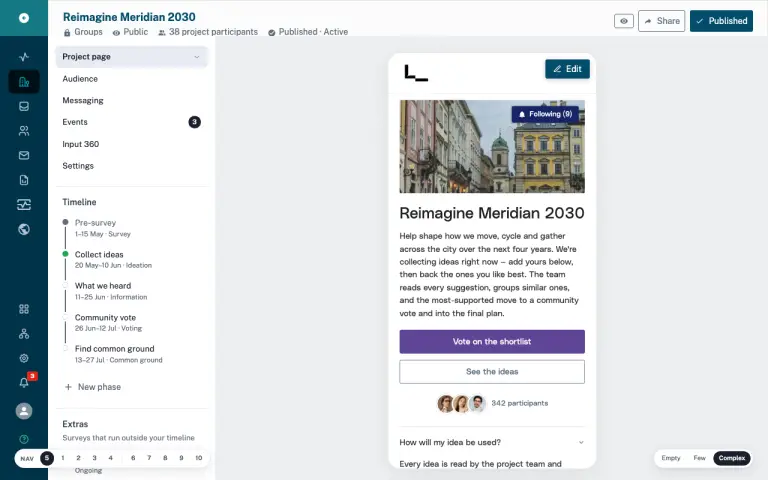
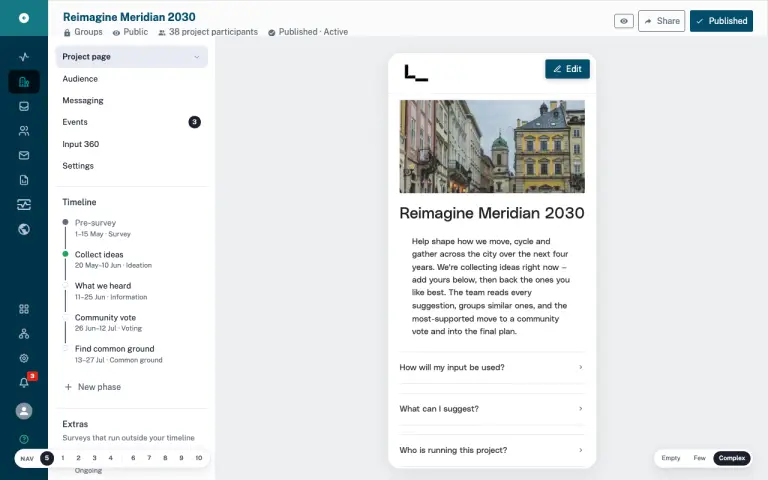
v3 editor: live model-driven phone preview from the canonical registry
The project-editor phone preview was static — phoneFO() returned hardcoded
sample HTML and only the empty/few/complex chips re-rendered it, so editing the
builder title (or anything) never reached the preview (audit F-FO4).

Canonical (GVWidgets.project, govocal-widgets.js — additive, make() output
unchanged):
  • buildModel(frameEl)  — read the builder's #cb-frame blocks into a project model
  • foBlock(type, data)  — clean resident-facing FO per widget (reuses the already-
                           clean pbox/survey/events/timeline internals; new FO
                           emitters for the builder-chrome widgets so no
                           contenteditable / cb-zone leaks onto the resident page)
  • renderFO(model)      — assemble the full FO project body (banner + content pad)
This is the single source of truth for FO project output — the phone preview now,
pages/project-page next (R1).

v3: renderPhone() now renders GVWidgets.project.renderFO(buildModel(#cb-frame));
a debounced MutationObserver on #cb-frame re-renders the phone on every edit
(title, text, method toggle, survey state…). Scaffold .gv-fo__* layout is
prototype-local for now (promote to canonical with R1). Synced widgets.js into
both prototype asset copies (byte-identical, INV-1).

Verified (Playwright, ?theme=linz): builder title/text edits propagate live to
the phone; pbox stays centered (gv-pbox--dir-a, justify-content:center); CTA fill
[…]

diff --git a/parallel-participation/prototypes/back-office-test/assets/govocal-widgets.js b/parallel-participation/prototypes/back-office-test/assets/govocal-widgets.js
@@ -987,6 +987,87 @@ window.GVWidgets = (function () {
       if (window.GVAvatars) window.GVAvatars.fill(frame);
     }
 
+    // ════════════ Canonical model-driven FRONT-OFFICE renderer ════════════
+    // Turns the builder's assembled blocks (or any project model) into the
+    // resident-facing project page — the single source of truth for FO output,
+    // consumed by the prototype phone preview and (later) pages/project-page.
+    // Content widgets (participation-box, extra-surveys, timeline, events) ARE
+    // already clean FO, so we reuse their make-internals; the builder-chrome
+    // widgets (title, hero, text, accordion, columns, …) get a clean FO emitter
+    // here (no contenteditable / cb-zone / drop affordances). Scaffold uses
+    // .gv-fo__* classes (styled per surface; page-composition layout, like the
+    // pp-* classes on pages/project-page).
+    function foEsc(s) { return esc(s == null ? '' : String(s)); }
+    function foDirectBlocks(el) {
+      // direct-child builder blocks (column children are read via their zone)
+      return Array.prototype.filter.call(el.children, function (c) {
+        return c.classList && c.classList.contains('gv-bo-cb-block');
+      });
+    }
+    // Read one builder block (.gv-bo-cb-block[data-widget]) back into {type,data}.
+    function readBlock(block) {
+      var type = block.getAttribute('data-widget');
+      function q(s) { return block.querySelector(s); }
+      function tx(s) { var n = q(s); return n ? (n.textContent || '').trim() : ''; }
+      var d = {};
+      switch (type) {
+        case 'title': d.text = tx('.cb-title'); break;
+        case 'hero': var hi = q('.cb-hero__img'); d.src = hi ? hi.getAttribute('src') : ''; break;
+        case 'text': var rt = q('.cb-richtext'); d.html = rt ? rt.innerHTML : ''; break;
+        case 'button': var b = q('.cb-fakebtn'); d.label = b ? (b.textContent || '').trim() : 'Button'; d.href = (b && b.getAttribute('data-href')) || '#'; d.style = b && b.classList.contains('cb-fakebtn--secondary') ? 'secondary' : (b && b.classList.contains('cb-fakebtn--link') ? 'link' : 'primary'); break;
+        case 'image': var im = q('.cb-img'); d.src = im ? im.getAttribute('src') : ''; d.alt = im ? (im.getAttribute('alt') || '') : ''; break;
+        case 'accordion': case 'info-accordions': d.title = tx('.cb-accordion__title'); var bt = q('.cb-accordion__text'); d.body = bt ? bt.innerHTML : ''; break;
+        case 'file-attachment': d.name = tx('.cb-file__name'); d.meta = tx('.cb-file__meta'); break;
+        case 'white-space': var ws = q('.cb-ws'); d.height = ws && ws.style.height ? parseInt(ws.style.height, 10) : 32; break;
+        case 'image-text-cards': d.caps = Array.prototype.map.call(block.querySelectorAll('.cb-card__cap'), function (c) { return (c.textContent || '').trim(); }); break;
+        case 'two-column': case 'three-column': d.cols = Array.prototype.map.call(block.querySelectorAll('.cb-col'), function (col) { return foDirectBlocks(col).map(readBlock); }); break;
+        case 'participation-box': d.pbox = cbPboxState(block); break;
+        case 'extra-surveys': d.survey = cbSurveyState(block); break;
+        case 'iframe': d.cap = tx('.cb-iframe__cap'); break;
+        // timeline / events render from the project model (CB_PHASES / CB_EVENTS)
+      }
+      return { type: type, data: d };
+    }
+    function buildModel(frame) {
+      if (!frame) return { blocks: [] };
+      return { blocks: foDirectBlocks(frame).map(readBlock) };
+    }
+    // Clean FO HTML for one block — no builder chrome.
+    function foBlock(type, data) {
+      data = data || {};
+      switch (type) {
+        case 'title': return data.text ? '<h1 class="gv-title h1 gv-fo__title">' + foEsc(data.text) + '</h1>' : '';
+        case 'text': return '<div class="gv-fo__rich gv-prose">' + (data.html || '') + '</div>';
+        case 'button': return '<div class="gv-fo__btnrow"><a class="gv-btn ' + (data.style === 'secondary' ? 'secondary-outlined' : data.style === 'link' ? 'text' : 'primary') + '" href="' + foEsc(data.href || '#') + '">' + foEsc(data.label || 'Button') + '</a></div>';
+        case 'image': return data.src ? '<figure class="gv-fo__img"><img src="' + foEsc(data.src) + '" alt="' + foEsc(data.alt) + '"></figure>' : '';
+        case 'accordion': case 'info-accordions': return '<div class="gv-accordion gv-fo__acc"><details class="gv-acc__item"><summary class="gv-acc__head"><span class="gv-acc__q">' + foEsc(data.title || 'More information') + '</span><span class="gv-acc__chev" data-gv-icon="chevron-right" aria-hidden="true"></span></summary><div class="gv-acc__body"><p>' + (data.body || '') + '</p></div></details></div>';
+        case 'file-attachment': return '<a class="gv-fileblock gv-fo__file" href="#"><span class="gv-icon" data-gv-icon="download"></span><span class="gv-fileblock__info"><span class="gv-fileblock__name">' + foEsc(data.name || 'Attachment') + '</span><span class="gv-fileblock__meta">' + foEsc(data.meta) + '</span></span></a>';
+        case 'white-space': return '<div class="gv-fo__ws" style="height:' + (data.height || 32) + 'px"></div>';
+        case 'image-text-cards': return '<div class="gv-fo__cards">' + (data.caps || []).map(function (c) { return '<div class="gv-fo__card"><div class="gv-fo__card-img"></div><div class="gv-fo__card-cap">' + foEsc(c) + '</div></div>'; }).join('') + '</div>';
+        case 'two-column': case 'three-column': return '<div class="gv-fo__cols gv-fo__cols--' + (type === 'three-column' ? 3 : 2) + '">' + (data.cols || []).map(function (col) { return '<div class="gv-fo__col">' + col.map(function (cb) { return foBlock(cb.type, cb.data); }).join('') + '</div>'; }).join('') + '</div>';
+        case 'iframe': return '<div class="gv-fo__embed">' + foEsc(data.cap || 'Embedded content') + '</div>';
+        case 'participation-box': return cbPboxBodyHTML(data.pbox || cbPboxDefault());
+        case 'extra-surveys': var sv = data.survey || { survey: 'mobility', format: 'card', style: 'primary', label: '', cardVariant: 'easy', state: 'current' }; return cbSurveyHTML(sv.survey, sv.format, sv.style, sv.label, sv.cardVariant, sv.state);
+        case 'timeline': return cbTimelineHTML();
+        case 'events': return cbEventsHTML(2);
+        default: return '';
+      }
+    }
+    // Assemble the full FO project body from a model {blocks:[{type,data}]}.
+    // Hero → full-bleed banner; title → page head; the rest flow in the content pad.
+    function renderFO(model) {
+      model = model || {};
+      var blocks = model.blocks || [];
+      var hero = '', head = '', body = '';
+      blocks.forEach(function (bl) {
+        if (bl.type === 'hero') { hero = (bl.data && bl.data.src) || hero; return; }
+        if (bl.type === 'title') { head += foBlock('title', bl.data); return; }
+        body += foBlock(bl.type, bl.data);
+      });
+      var banner = hero ? '<div class="gv-fo__banner"><img src="' + foEsc(hero) + '" alt=""></div>' : '';
+      return '<div class="gv-fo">' + banner + '<div class="gv-fo__pad">' + head + body + '</div></div>';
+    }
+
     // ── assemble the registry: every widget shares the dispatchers above ──
     var REG = {};
     Object.keys(MK).forEach(function (w) {
@@ -1001,6 +1082,10 @@ window.GVWidgets = (function () {
     });
     REG._meta = { tx: TX };   // which widgets show the panel-level locale switcher
     REG._applyModel = applyModel;   // prototypes call GVWidgets.project._applyModel(model, frame)
+    // Model-driven FO renderer: read the builder → render the resident page.
+    REG.buildModel = buildModel;    // GVWidgets.project.buildModel(frameEl) → {blocks}
+    REG.renderFO = renderFO;        // GVWidgets.project.renderFO(model) → FO HTML string
+    REG.foBlock = foBlock;          // per-widget clean FO emitter
     return REG;
   })();
 

diff --git a/parallel-participation/prototypes/parallel-editor-builder-v3/assets/govocal-widgets.js b/parallel-participation/prototypes/parallel-editor-builder-v3/assets/govocal-widgets.js
@@ -987,6 +987,87 @@ window.GVWidgets = (function () {
       if (window.GVAvatars) window.GVAvatars.fill(frame);
     }
 
+    // ════════════ Canonical model-driven FRONT-OFFICE renderer ════════════
+    // Turns the builder's assembled blocks (or any project model) into the
+    // resident-facing project page — the single source of truth for FO output,
+    // consumed by the prototype phone preview and (later) pages/project-page.
+    // Content widgets (participation-box, extra-surveys, timeline, events) ARE
+    // already clean FO, so we reuse their make-internals; the builder-chrome
+    // widgets (title, hero, text, accordion, columns, …) get a clean FO emitter
+    // here (no contenteditable / cb-zone / drop affordances). Scaffold uses
+    // .gv-fo__* classes (styled per surface; page-composition layout, like the
+    // pp-* classes on pages/project-page).
+    function foEsc(s) { return esc(s == null ? '' : String(s)); }
+    function foDirectBlocks(el) {
+      // direct-child builder blocks (column children are read via their zone)
+      return Array.prototype.filter.call(el.children, function (c) {
+        return c.classList && c.classList.contains('gv-bo-cb-block');
+      });
+    }
+    // Read one builder block (.gv-bo-cb-block[data-widget]) back into {type,data}.
+    function readBlock(block) {
+      var type = block.getAttribute('data-widget');
+      function q(s) { return block.querySelector(s); }
+      function tx(s) { var n = q(s); return n ? (n.textContent || '').trim() : ''; }
+      var d = {};
+      switch (type) {
+        case 'title': d.text = tx('.cb-title'); break;
+        case 'hero': var hi = q('.cb-hero__img'); d.src = hi ? hi.getAttribute('src') : ''; break;
+        case 'text': var rt = q('.cb-richtext'); d.html = rt ? rt.innerHTML : ''; break;
+        case 'button': var b = q('.cb-fakebtn'); d.label = b ? (b.textContent || '').trim() : 'Button'; d.href = (b && b.getAttribute('data-href')) || '#'; d.style = b && b.classList.contains('cb-fakebtn--secondary') ? 'secondary' : (b && b.classList.contains('cb-fakebtn--link') ? 'link' : 'primary'); break;
+        case 'image': var im = q('.cb-img'); d.src = im ? im.getAttribute('src') : ''; d.alt = im ? (im.getAttribute('alt') || '') : ''; break;
+        case 'accordion': case 'info-accordions': d.title = tx('.cb-accordion__title'); var bt = q('.cb-accordion__text'); d.body = bt ? bt.innerHTML : ''; break;
+        case 'file-attachment': d.name = tx('.cb-file__name'); d.meta = tx('.cb-file__meta'); break;
+        case 'white-space': var ws = q('.cb-ws'); d.height = ws && ws.style.height ? parseInt(ws.style.height, 10) : 32; break;
+        case 'image-text-cards': d.caps = Array.prototype.map.call(block.querySelectorAll('.cb-card__cap'), function (c) { return (c.textContent || '').trim(); }); break;
+        case 'two-column': case 'three-column': d.cols = Array.prototype.map.call(block.querySelectorAll('.cb-col'), function (col) { return foDirectBlocks(col).map(readBlock); }); break;
+        case 'participation-box': d.pbox = cbPboxState(block); break;
+        case 'extra-surveys': d.survey = cbSurveyState(block); break;
+        case 'iframe': d.cap = tx('.cb-iframe__cap'); break;
+        // timeline / events render from the project model (CB_PHASES / CB_EVENTS)
+      }
+      return { type: type, data: d };
+    }
+    function buildModel(frame) {
+      if (!frame) return { blocks: [] };
+      return { blocks: foDirectBlocks(frame).map(readBlock) };
+    }
+    // Clean FO HTML for one block — no builder chrome.
+    function foBlock(type, data) {
+      data = data || {};
+      switch (type) {
+        case 'title': return data.text ? '<h1 class="gv-title h1 gv-fo__title">' + foEsc(data.text) + '</h1>' : '';
+        case 'text': return '<div class="gv-fo__rich gv-prose">' + (data.html || '') + '</div>';
+        case 'button': return '<div class="gv-fo__btnrow"><a class="gv-btn ' + (data.style === 'secondary' ? 'secondary-outlined' : data.style === 'link' ? 'text' : 'primary') + '" href="' + foEsc(data.href || '#') + '">' + foEsc(data.label || 'Button') + '</a></div>';
+        case 'image': return data.src ? '<figure class="gv-fo__img"><img src="' + foEsc(data.src) + '" alt="' + foEsc(data.alt) + '"></figure>' : '';
+        case 'accordion': case 'info-accordions': return '<div class="gv-accordion gv-fo__acc"><details class="gv-acc__item"><summary class="gv-acc__head"><span class="gv-acc__q">' + foEsc(data.title || 'More information') + '</span><span class="gv-acc__chev" data-gv-icon="chevron-right" aria-hidden="true"></span></summary><div class="gv-acc__body"><p>' + (data.body || '') + '</p></div></details></div>';
+        case 'file-attachment': return '<a class="gv-fileblock gv-fo__file" href="#"><span class="gv-icon" data-gv-icon="download"></span><span class="gv-fileblock__info"><span class="gv-fileblock__name">' + foEsc(data.name || 'Attachment') + '</span><span class="gv-fileblock__meta">' + foEsc(data.meta) + '</span></span></a>';
+        case 'white-space': return '<div class="gv-fo__ws" style="height:' + (data.height || 32) + 'px"></div>';
+        case 'image-text-cards': return '<div class="gv-fo__cards">' + (data.caps || []).map(function (c) { return '<div class="gv-fo__card"><div class="gv-fo__card-img"></div><div class="gv-fo__card-cap">' + foEsc(c) + '</div></div>'; }).join('') + '</div>';
+        case 'two-column': case 'three-column': return '<div class="gv-fo__cols gv-fo__cols--' + (type === 'three-column' ? 3 : 2) + '">' + (data.cols || []).map(function (col) { return '<div class="gv-fo__col">' + col.map(function (cb) { return foBlock(cb.type, cb.data); }).join('') + '</div>'; }).join('') + '</div>';
+        case 'iframe': return '<div class="gv-fo__embed">' + foEsc(data.cap || 'Embedded content') + '</div>';
+        case 'participation-box': return cbPboxBodyHTML(data.pbox || cbPboxDefault());
+        case 'extra-surveys': var sv = data.survey || { survey: 'mobility', format: 'card', style: 'primary', label: '', cardVariant: 'easy', state: 'current' }; return cbSurveyHTML(sv.survey, sv.format, sv.style, sv.label, sv.cardVariant, sv.state);
+        case 'timeline': return cbTimelineHTML();
+        case 'events': return cbEventsHTML(2);
+        default: return '';
+      }
+    }
+    // Assemble the full FO project body from a model {blocks:[{type,data}]}.
+    // Hero → full-bleed banner; title → page head; the rest flow in the content pad.
+    function renderFO(model) {
+      model = model || {};
+      var blocks = model.blocks || [];
+      var hero = '', head = '', body = '';
+      blocks.forEach(function (bl) {
+        if (bl.type === 'hero') { hero = (bl.data && bl.data.src) || hero; return; }
+        if (bl.type === 'title') { head += foBlock('title', bl.data); return; }
+        body += foBlock(bl.type, bl.data);
+      });
+      var banner = hero ? '<div class="gv-fo__banner"><img src="' + foEsc(hero) + '" alt=""></div>' : '';
+      return '<div class="gv-fo">' + banner + '<div class="gv-fo__pad">' + head + body + '</div></div>';
+    }
+
     // ── assemble the registry: every widget shares the dispatchers above ──
     var REG = {};
     Object.keys(MK).forEach(function (w) {
@@ -1001,6 +1082,10 @@ window.GVWidgets = (function () {
     });
     REG._meta = { tx: TX };   // which widgets show the panel-level locale switcher
     REG._applyModel = applyModel;   // prototypes call GVWidgets.project._applyModel(model, frame)
+    // Model-driven FO renderer: read the builder → render the resident page.
+    REG.buildModel = buildModel;    // GVWidgets.project.buildModel(frameEl) → {blocks}
+    REG.renderFO = renderFO;        // GVWidgets.project.renderFO(model) → FO HTML string
+    REG.foBlock = foBlock;          // per-widget clean FO emitter
     return REG;
   })();
 

diff --git a/skills/govocal-ui/govocal-widgets.js b/skills/govocal-ui/govocal-widgets.js
@@ -987,6 +987,87 @@ window.GVWidgets = (function () {
       if (window.GVAvatars) window.GVAvatars.fill(frame);
     }
 
+    // ════════════ Canonical model-driven FRONT-OFFICE renderer ════════════
+    // Turns the builder's assembled blocks (or any project model) into the
+    // resident-facing project page — the single source of truth for FO output,
+    // consumed by the prototype phone preview and (later) pages/project-page.
+    // Content widgets (participation-box, extra-surveys, timeline, events) ARE
+    // already clean FO, so we reuse their make-internals; the builder-chrome
+    // widgets (title, hero, text, accordion, columns, …) get a clean FO emitter
+    // here (no contenteditable / cb-zone / drop affordances). Scaffold uses
+    // .gv-fo__* classes (styled per surface; page-composition layout, like the
+    // pp-* classes on pages/project-page).
+    function foEsc(s) { return esc(s == null ? '' : String(s)); }
+    function foDirectBlocks(el) {
+      // direct-child builder blocks (column children are read via their zone)
+      return Array.prototype.filter.call(el.children, function (c) {
+        return c.classList && c.classList.contains('gv-bo-cb-block');
+      });
+    }
+    // Read one builder block (.gv-bo-cb-block[data-widget]) back into {type,data}.
+    function readBlock(block) {
+      var type = block.getAttribute('data-widget');
+      function q(s) { return block.querySelector(s); }
+      function tx(s) { var n = q(s); return n ? (n.textContent || '').trim() : ''; }
+      var d = {};
+      switch (type) {
+        case 'title': d.text = tx('.cb-title'); break;
+        case 'hero': var hi = q('.cb-hero__img'); d.src = hi ? hi.getAttribute('src') : ''; break;
+        case 'text': var rt = q('.cb-richtext'); d.html = rt ? rt.innerHTML : ''; break;
+        case 'button': var b = q('.cb-fakebtn'); d.label = b ? (b.textContent || '').trim() : 'Button'; d.href = (b && b.getAttribute('data-href')) || '#'; d.style = b && b.classList.contains('cb-fakebtn--secondary') ? 'secondary' : (b && b.classList.contains('cb-fakebtn--link') ? 'link' : 'primary'); break;
+        case 'image': var im = q('.cb-img'); d.src = im ? im.getAttribute('src') : ''; d.alt = im ? (im.getAttribute('alt') || '') : ''; break;
+        case 'accordion': case 'info-accordions': d.title = tx('.cb-accordion__title'); var bt = q('.cb-accordion__text'); d.body = bt ? bt.innerHTML : ''; break;
+        case 'file-attachment': d.name = tx('.cb-file__name'); d.meta = tx('.cb-file__meta'); break;
+        case 'white-space': var ws = q('.cb-ws'); d.height = ws && ws.style.height ? parseInt(ws.style.height, 10) : 32; break;
+        case 'image-text-cards': d.caps = Array.prototype.map.call(block.querySelectorAll('.cb-card__cap'), function (c) { return (c.textContent || '').trim(); }); break;
+        case 'two-column': case 'three-column': d.cols = Array.prototype.map.call(block.querySelectorAll('.cb-col'), function (col) { return foDirectBlocks(col).map(readBlock); }); break;
+        case 'participation-box': d.pbox = cbPboxState(block); break;
+        case 'extra-surveys': d.survey = cbSurveyState(block); break;
+        case 'iframe': d.cap = tx('.cb-iframe__cap'); break;
+        // timeline / events render from the project model (CB_PHASES / CB_EVENTS)
+      }
+      return { type: type, data: d };
+    }
+    function buildModel(frame) {
+      if (!frame) return { blocks: [] };
+      return { blocks: foDirectBlocks(frame).map(readBlock) };
+    }
+    // Clean FO HTML for one block — no builder chrome.
+    function foBlock(type, data) {
+      data = data || {};
+      switch (type) {
+        case 'title': return data.text ? '<h1 class="gv-title h1 gv-fo__title">' + foEsc(data.text) + '</h1>' : '';
+        case 'text': return '<div class="gv-fo__rich gv-prose">' + (data.html || '') + '</div>';
+        case 'button': return '<div class="gv-fo__btnrow"><a class="gv-btn ' + (data.style === 'secondary' ? 'secondary-outlined' : data.style === 'link' ? 'text' : 'primary') + '" href="' + foEsc(data.href || '#') + '">' + foEsc(data.label || 'Button') + '</a></div>';
+        case 'image': return data.src ? '<figure class="gv-fo__img"><img src="' + foEsc(data.src) + '" alt="' + foEsc(data.alt) + '"></figure>' : '';
+        case 'accordion': case 'info-accordions': return '<div class="gv-accordion gv-fo__acc"><details class="gv-acc__item"><summary class="gv-acc__head"><span class="gv-acc__q">' + foEsc(data.title || 'More information') + '</span><span class="gv-acc__chev" data-gv-icon="chevron-right" aria-hidden="true"></span></summary><div class="gv-acc__body"><p>' + (data.body || '') + '</p></div></details></div>';
+        case 'file-attachment': return '<a class="gv-fileblock gv-fo__file" href="#"><span class="gv-icon" data-gv-icon="download"></span><span class="gv-fileblock__info"><span class="gv-fileblock__name">' + foEsc(data.name || 'Attachment') + '</span><span class="gv-fileblock__meta">' + foEsc(data.meta) + '</span></span></a>';
+        case 'white-space': return '<div class="gv-fo__ws" style="height:' + (data.height || 32) + 'px"></div>';
+        case 'image-text-cards': return '<div class="gv-fo__cards">' + (data.caps || []).map(function (c) { return '<div class="gv-fo__card"><div class="gv-fo__card-img"></div><div class="gv-fo__card-cap">' + foEsc(c) + '</div></div>'; }).join('') + '</div>';
+        case 'two-column': case 'three-column': return '<div class="gv-fo__cols gv-fo__cols--' + (type === 'three-column' ? 3 : 2) + '">' + (data.cols || []).map(function (col) { return '<div class="gv-fo__col">' + col.map(function (cb) { return foBlock(cb.type, cb.data); }).join('') + '</div>'; }).join('') + '</div>';
+        case 'iframe': return '<div class="gv-fo__embed">' + foEsc(data.cap || 'Embedded content') + '</div>';
+        case 'participation-box': return cbPboxBodyHTML(data.pbox || cbPboxDefault());
+        case 'extra-surveys': var sv = data.survey || { survey: 'mobility', format: 'card', style: 'primary', label: '', cardVariant: 'easy', state: 'current' }; return cbSurveyHTML(sv.survey, sv.format, sv.style, sv.label, sv.cardVariant, sv.state);
+        case 'timeline': return cbTimelineHTML();
+        case 'events': return cbEventsHTML(2);
+        default: return '';
+      }
+    }
+    // Assemble the full FO project body from a model {blocks:[{type,data}]}.
+    // Hero → full-bleed banner; title → page head; the rest flow in the content pad.
+    function renderFO(model) {
+      model = model || {};
+      var blocks = model.blocks || [];
+      var hero = '', head = '', body = '';
+      blocks.forEach(function (bl) {
+        if (bl.type === 'hero') { hero = (bl.data && bl.data.src) || hero; return; }
+        if (bl.type === 'title') { head += foBlock('title', bl.data); return; }
+        body += foBlock(bl.type, bl.data);
+      });
+      var banner = hero ? '<div class="gv-fo__banner"><img src="' + foEsc(hero) + '" alt=""></div>' : '';
+      return '<div class="gv-fo">' + banner + '<div class="gv-fo__pad">' + head + body + '</div></div>';
+    }
+
     // ── assemble the registry: every widget shares the dispatchers above ──
     var REG = {};
     Object.keys(MK).forEach(function (w) {
@@ -1001,6 +1082,10 @@ window.GVWidgets = (function () {
     });
     REG._meta = { tx: TX };   // which widgets show the panel-level locale switcher
     REG._applyModel = applyModel;   // prototypes call GVWidgets.project._applyModel(model, frame)
+    // Model-driven FO renderer: read the builder → render the resident page.
+    REG.buildModel = buildModel;    // GVWidgets.project.buildModel(frameEl) → {blocks}
+    REG.renderFO = renderFO;        // GVWidgets.project.renderFO(model) → FO HTML string
+    REG.foBlock = foBlock;          // per-widget clean FO emitter
     return REG;
   })();
 

diff --git a/parallel-participation/prototypes/parallel-editor-builder-v3/index.html b/parallel-participation/prototypes/parallel-editor-builder-v3/index.html
@@ -157,6 +157,40 @@
   /* The blinking "open" status dot is now baked into the canonical .gv-partbar
      (gv-partbar-pulse in govocal-ui.css) — no prototype-local animation needed. */
 
+  /* ── Model-driven FO preview (canonical GVWidgets.project.renderFO output) ──────
+     The phone now renders the resident page LIVE from the builder's blocks. Widgets
+     are canonical .gv-* (themed, centered, etc.); these .gv-fo__* rules are only the
+     page frame (banner, content pad, spacing) — the same page-composition role the
+     pp-* classes play on pages/project-page. Prototype-local for now; promote to
+     canonical CSS when pages/project-page is converged onto renderFO (R1). */
+  .phone .gv-fo { font-family: var(--gv-font-family); color: var(--gv-text-primary, #1a1f2c); }
+  .phone .gv-fo__banner { position: relative; height: 180px; overflow: hidden; margin: 12px 22px 0; border-radius: var(--gv-radius); }
+  .phone .gv-fo__banner img { width: 100%; height: 100%; object-fit: cover; display: block; }
+  .phone .gv-fo__pad { padding: 20px 22px 28px; }
+  .phone .gv-fo__pad > * { margin: 0 0 22px; }
+  .phone .gv-fo__pad > *:last-child { margin-bottom: 0; }
+  .phone .gv-fo__title { margin: 0 0 14px; }
+  .phone .gv-fo__rich { font-size: var(--gv-fs-base); line-height: 1.55; color: var(--gv-grey-800, #43515D); }
+  .phone .gv-fo__rich p { margin: 0 0 10px; }
+  .phone .gv-fo__rich p:last-child { margin-bottom: 0; }
+  .phone .gv-fo__btnrow .gv-btn { width: 100%; justify-content: center; }
+  .phone .gv-fo__img img { width: 100%; border-radius: var(--gv-radius); display: block; }
+  .phone .gv-fo__cols { display: flex; flex-direction: column; gap: 22px; }
+  .phone .gv-fo__col > * { margin: 0 0 18px; }
+  .phone .gv-fo__col > *:last-child { margin-bottom: 0; }
+  .phone .gv-fo__cards { display: grid; grid-template-columns: 1fr 1fr; gap: 12px; }
+  .phone .gv-fo__card-img { aspect-ratio: 4 / 3; background: var(--gv-grey-200, #e3e7ea); border-radius: var(--gv-radius); margin-bottom: 6px; }
+  .phone .gv-fo__card-cap { font-size: var(--gv-fs-s); color: var(--gv-text-secondary, #596B7A); }
+  .phone .gv-fo__embed { padding: 28px; text-align: center; background: var(--gv-grey-100, #f4f6fa); border-radius: var(--gv-radius); color: var(--gv-text-secondary, #596B7A); font-size: var(--gv-fs-s); }
+  .phone .gv-fo__ws { width: 100%; }
+  .phone .gv-fo .gv-event-card { margin-bottom: 14px; }
+  .phone .gv-fo .cb-events, .phone .gv-fo .gv-phases { margin-top: 4px; }
+  /* Desktop frame: wider banner + a centred content column */
+  .frame-window .gv-fo__banner { height: 300px; max-width: 1040px; margin: 12px auto 0; }
+  .frame-window .gv-fo__pad { max-width: 1120px; margin: 0 auto; padding: 36px 40px; }
+  .frame-window .gv-fo__cols { flex-direction: row; align-items: flex-start; }
+  .frame-window .gv-fo__col { flex: 1; }
+
   /* ── Empty-phone default-scaffold exploration (3 options) ───────────────────
      A freshly-created project isn't truly blank: it has a real title, and (per option)
      ships with default scaffolding — generic body text, a participation box, and a
@@ -5025,8 +5059,17 @@
   function renderPhone(state) {
     const sc = document.getElementById('phone-scroller');
     if (!sc) return;
+    // LIVE preview: render the resident page from the builder's actual blocks via
+    // the canonical model-driven renderer (GVWidgets.project.renderFO ← buildModel).
+    // The builder mounts AFTER the initial render, so fall back to the static sample
+    // until it's seeded — then the post-mount observer re-renders live on every edit.
+    const frame = document.getElementById('cb-frame');
+    const live = state !== 'empty' && frame && window.GVWidgets && GVWidgets.project
+      && GVWidgets.project.renderFO && frame.querySelector('.gv-bo-cb-block');
     if (state === 'empty') {
       sc.innerHTML = emptyPhone();
+    } else if (live) {
+      sc.innerHTML = GVWidgets.project.renderFO(GVWidgets.project.buildModel(frame));
     } else {
       sc.innerHTML = phoneFO(state);
     }
@@ -5036,6 +5079,12 @@
     if (!sc._stickyWired) { sc.addEventListener('scroll', updateStickyBar, { passive: true }); sc._stickyWired = true; }
     requestAnimationFrame(updateStickyBar);
   }
+  // Re-render the phone from the current builder model (called by the post-mount
+  // edit observer in the content-builder script). Empty state keeps its ghost view.
+  window.cbSyncPhone = function () {
+    if (window.ppState === 'empty') return;
+    renderPhone(window.ppState || 'complex');
+  };
 
   // Participation bar: lives inline above the timeline, and sticks to the phone footer
   // ONLY once the user scrolls down far enough to reach it (then stays stuck through the
@@ -5892,6 +5941,24 @@
       var mo = new MutationObserver(function () { if (window.fitCanvas) window.fitCanvas(); });
       mo.observe(root, { attributes: true, attributeFilter: ['class'] });
     }
+
+    // ── Live FO preview: re-render the phone whenever the builder content changes ──
+    // The phone now mirrors the builder via GVWidgets.project.renderFO(buildModel) —
+    // typing a title, editing text, toggling a participation method, swapping a survey
+    // state all flow straight to the resident-page preview. Debounced so a burst of
+    // mutations (e.g. a widget re-render) collapses into one preview update. The
+    // observer watches #cb-frame only; the preview writes to #phone-scroller, so there
+    // is no feedback loop.
+    if (frame && window.MutationObserver) {
+      var _pvDeb;
+      var pvmo = new MutationObserver(function () {
+        clearTimeout(_pvDeb);
+        _pvDeb = setTimeout(function () { if (window.cbSyncPhone) window.cbSyncPhone(); }, 180);
+      });
+      pvmo.observe(frame, { subtree: true, childList: true, characterData: true, attributes: true });
+    }
+    // First live render now that the builder is seeded + the model is applied.
+    if (window.cbSyncPhone) window.cbSyncPhone();
 
     // ── Bridge for the preview's "click to edit" zones (called from maybeOpenBuilder) ──
     // Selects the block matching data-widget and brings it into view.
